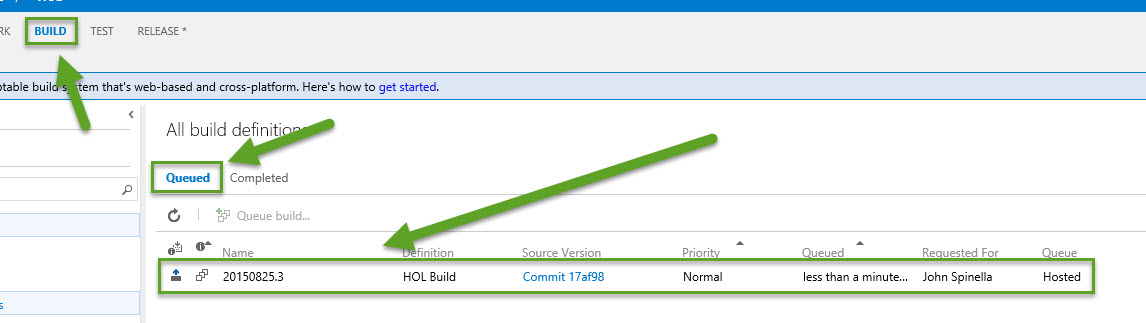
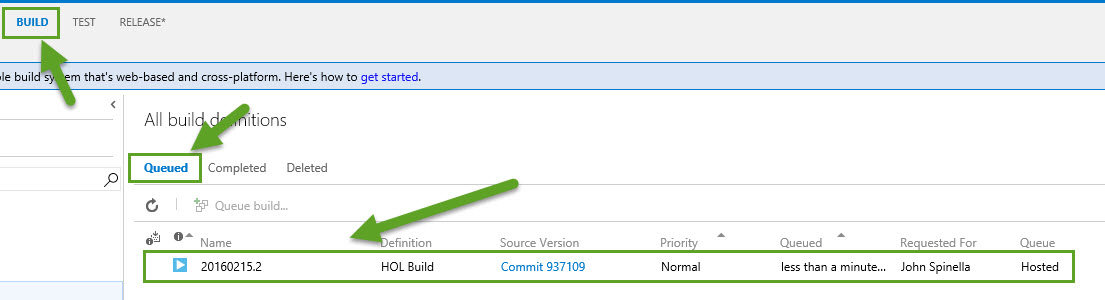
Updated markdown and images

Changed region(s): [[0.0, 0.0, 1.0, 0.99]]

diff --git a/docs/HOL_PartsUnlimited_WebSite_Continuous_Integration/HOL_PartsUnlimited_WebSite_Continuous_Integration_with_Visual_Studio_Online_Build.md b/docs/HOL_PartsUnlimited_WebSite_Continuous_Integration/HOL_PartsUnlimited_WebSite_Continuous_Integration_with_Visual_Studio_Online_Build.md
@@ -12,7 +12,7 @@ pushed to Visual Studio Online.
 
 -   An active Visual Studio Online account
 
--   An Visual Studio 2015 or Visual Studio 2013 Update 5 client
+-   An Visual Studio 2015 Update 2 or Visual Studio 2013 Update 5 client
 
 -   Project Admin rights to the Visual Studio Online account
 
@@ -111,62 +111,58 @@ the page.
 
 ![](<media/23.jpg>)
 
-**4.** Click the **green “plus” sign**, select **Visual Studio Build**, and then click **OK**.
+**4.** Click the **green “plus” sign**, select **Visual Studio Build**, and then click **Next**.
 
-![](<media/24.jpg>)
+![](<media/24.1.jpg>)
 
-> **Note:** As you can see, you can now do Xamarin Android/IOS and Builds as well as Xcode builds.
+>**Note:** As you can see, you can now do Universal Windows Apps & Xamarin Android/IOS and Builds as well as Xcode builds.
 
-**5.** Click on the **Repository** tab, and choose the git repository that
-PartsUnlimited source is in.
+**5.** After clicking the **Next** button, select **HOL Team Project**, select **HOL** Repository, select **HOLRepo** as the default branch and check **Continuous Integration** then click **Create**.
 
-![](<media/35.jpg>)
+![](<media/24.2.jpg>)
 
-**6.** We are going to use the **HOLRepo** branch on the Repository tab
+> **Note:** We may have multiple repos and branches, so we need to select the correct Repo and Branch before we can select which Solution to build.
 
-> **Note:** We have multiple repos and branches, so we need to select the correct Repo and Branch before we can select which Solution to build.
+**6.** After clicking the **Create** button, On the **Build** tab, and click the **ellipsis** in the Build Solution pane. Select the PartsUnlimited solution file.
 
-**7.** Click on the **Build** tab, and click the **ellipsis** in the Build Solution pane. Select the PartsUnlimited solution file.
+![](<media/24.3.jpg>)
 
-![](<media/36.jpg>)
-
-**8.** Now Enter the following information to **MSBuild** parameters:
+**8.** On the **Visual Studio Build** task, now enter the following information to **MSBuild** parameters:
     
-    /p:DeployOnBuild=true 
+    /p:DeployOnBuild=true /p:WebPublishMethod=Package /p:PackageAsSingleFile=true /p:SkipInvalidConfigurations=true /p:PackageLocation=$(build.artifactstagingdirectory)
     
-    /p:WebPublishMethod=Package 
-    
-    /p:PackageAsSingleFile=true 
-    
-    /p:SkipInvalidConfigurations=true 
-    
-    /p:PackageLocation="C:\Agent\HOL"
+> **Note:** Remember all the parameters will be one after the other.
 
-![](<media/48.jpg>)
+![](<media/24.4.jpg>)
 
-**9.** Since the PartUnlimited project has passing and failing tests, Select the **Visual Studio Test** Task and click **Continue on Error** checkbox. 
+**7.** On the **Visual Studio Build** task, we want to restore the nuget packages for the PartsUnlimited solution . Check **Restore Nuget Packages**.
+
+![](<media/24.9.jpg>)
+
+**9.** Select the **Visual Studio Test** Task, click the **ellipsis** in the **Run Settings File**. Select the **Local.testsettings** file.
+
+![](<media/24.5.jpg>)
+
+**10.** Since the PartUnlimited project has passing and failing tests, click **Continue on Error** checkbox. 
 
 > **Talking Points:** Clicking the **Continue on Error** checkbox will allow the build to partially succeed which will allow us to use this build for other tasks, let's just say using the build for Continuous Delivery. 
 
-![](<media/44.jpg>)
+![](<media/24.6.jpg>)
 
 > **Talking Points:** If any of your tests fail the build will fail. If you do not want the build to fail, click” Continue On Error” and the build will partially succeed.
 
-**10.** Click on the **Trigger** tab, , click **Continuous Integration**. Make sure the filter to include **HOLRepo** and **Batch Changes** checkbox is unchecked
+**11.** Click on the **Trigger** tab, Make sure the filter to include **HOLRepo** and **Batch Changes** checkbox is unchecked
 
-![](<media/38.jpg>)
+![](<media/24.7.jpg>)
 
 > **Note:** So that the Build fires off every time there’s a check in, enable the Continuous integration trigger. You can select which branch you wish to monitor, as well.
 
-**11.** Select the **Publish Build Artifacts** task, and fill in the input values
+**11.** Select the **Copy Files** task, and input the **Contents** value
 with the following:
 
-	Copy Root: C:/Agent/HOL
-	Contents: *.zip
-	Artifact Name: drop
-	Artifact Type: Server
-
-![](<media/39.jpg>)
+	 *.zip
+	
+![](<media/24.8.jpg>)
 
 **12.** Click **Save** and give the build definition a name (i.e.
 *“HOL Build”*).
